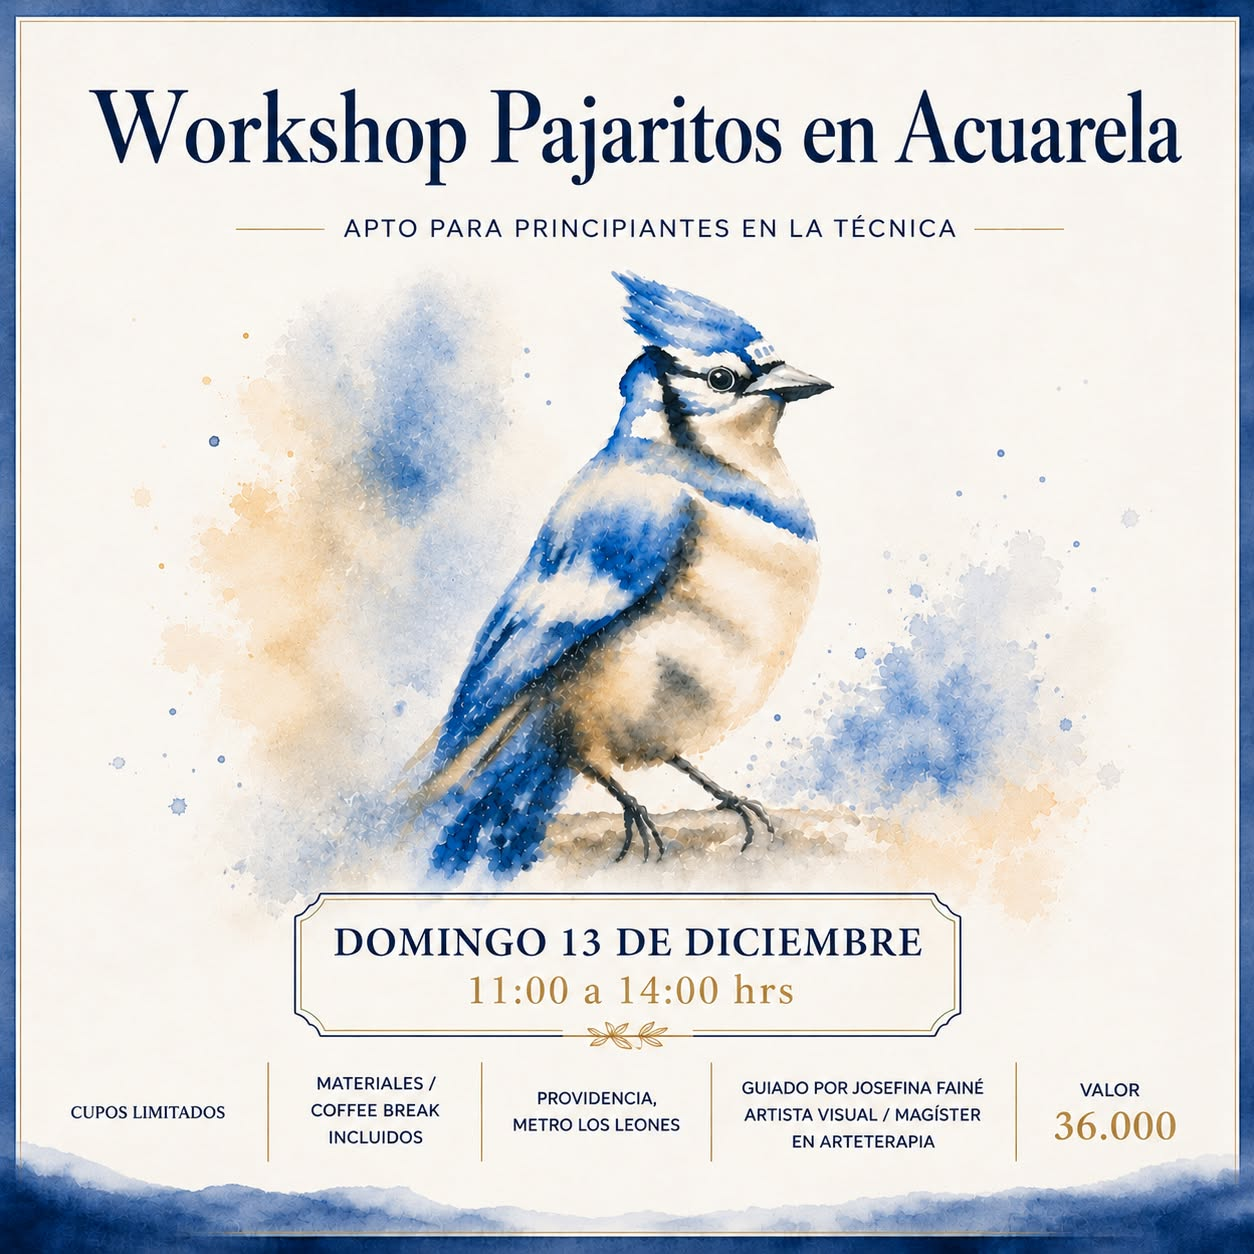
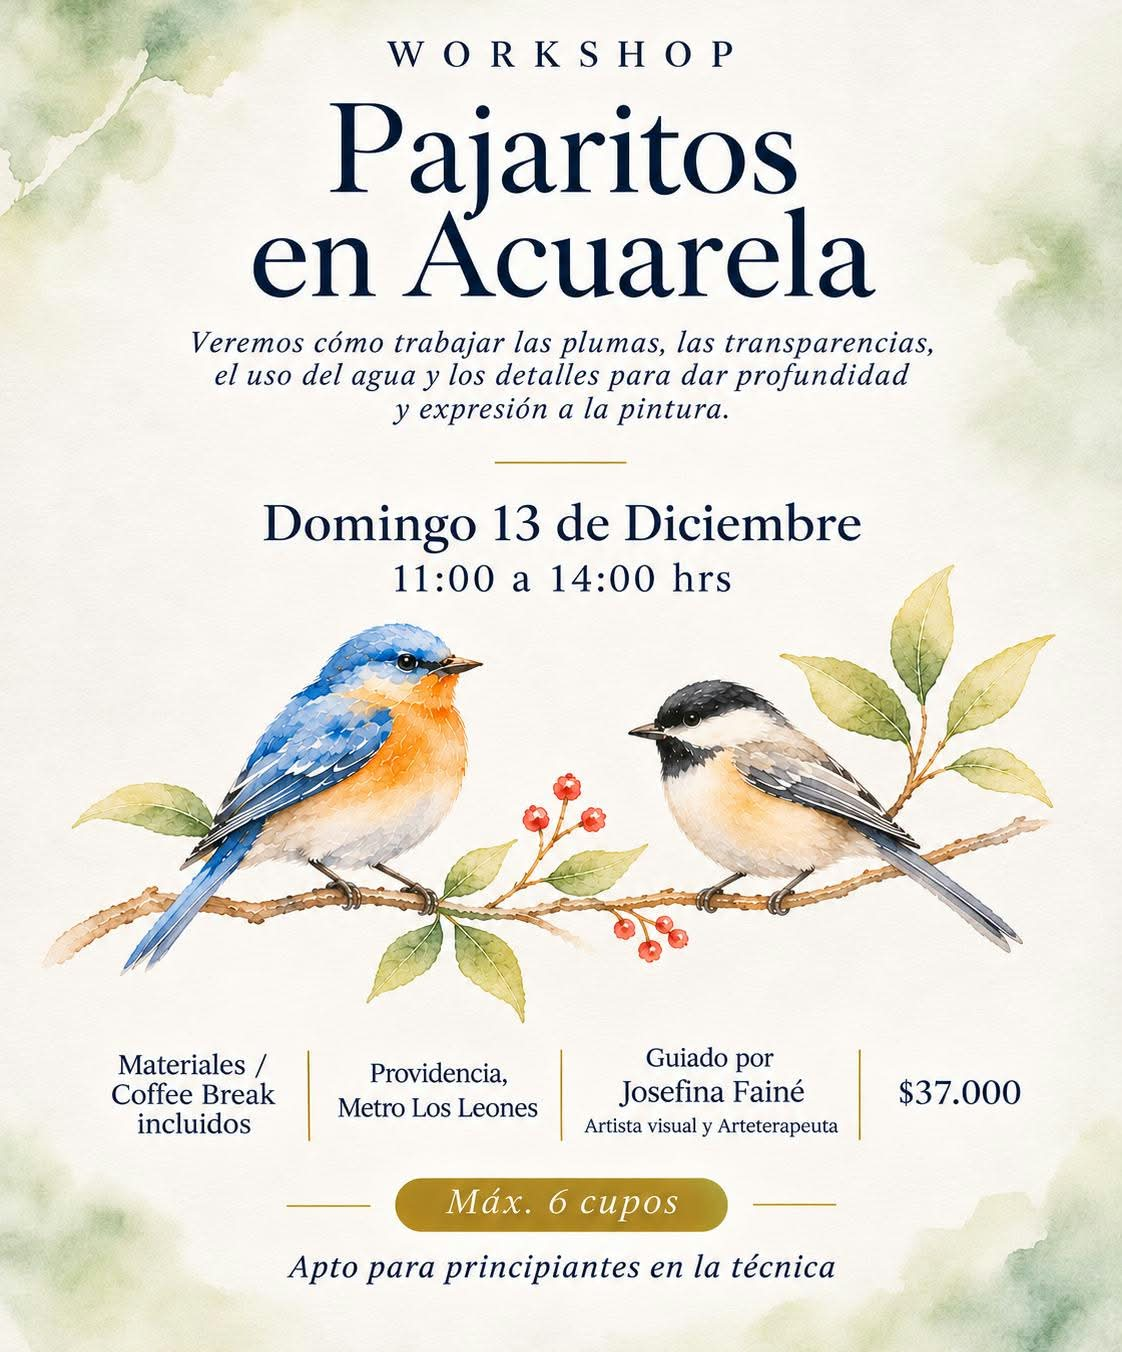
Actualizar afiche, precio y cupos de Pajaritos en Acuarela

diff --git a/src/lib/constants.ts b/src/lib/constants.ts
@@ -66,20 +66,20 @@ export const WORKSHOPS: Workshop[] = [
     slug: 'pajaritos-en-acuarela',
     name: 'Workshop Pajaritos en Acuarela',
     tagline: 'Sesión única · Apto para principiantes',
-    description: 'Pinta un pajarito en acuarela con Josefina Fainé, artista visual y magíster en arteterapia. Nos reuniremos en Providencia, cerca del metro Los Leones. Incluye materiales y coffee break.',
+    description: 'Pinta pajaritos en acuarela con Josefina Fainé, artista visual y arteterapeuta. Aprenderás a pintar las plumas, crear transparencias y usar el agua y los detalles para dar profundidad y expresión a tu pintura.',
     date: '',
     time: '',
     sessions: [{ date: '2026-12-13', startTime: '11:00', endTime: '14:00' }],
     duration: '3 horas',
-    price: 36000,
-    groupSize: 0,
+    price: 37000,
+    groupSize: 6,
     level: 'Apto para principiantes',
-    image: '/fotos/workshop-pajaritos.jpg',
+    image: '/fotos/workshop-pajaritos.jpg?v=20261126',
     imageFit: 'contain',
     ctaLink: `https://wa.me/${WHATSAPP_NUMBER}?text=${encodeURIComponent('¡Hola, Josefina! Me gustaría reservar un cupo para el Workshop Pajaritos en Acuarela del domingo 13 de diciembre, de 11:00 a 14:00. ¿Quedan cupos?')}`,
     ctaText: 'Reservar por WhatsApp',
     detailLink: '/talleres/pajaritos-en-acuarela',
-    seoDescription: 'Workshop Pajaritos en Acuarela con Josefina Fainé en Providencia. Domingo 13 de diciembre de 2026, de 11:00 a 14:00. $36.000 con materiales y coffee break incluidos.',
+    seoDescription: 'Workshop Pajaritos en Acuarela con Josefina Fainé en Providencia. Domingo 13 de diciembre de 2026, de 11:00 a 14:00. $37.000 con materiales y coffee break incluidos. Máximo 6 cupos.',
     incluye: ['Materiales para pintar en acuarela', 'Coffee break'],
   },
   {
